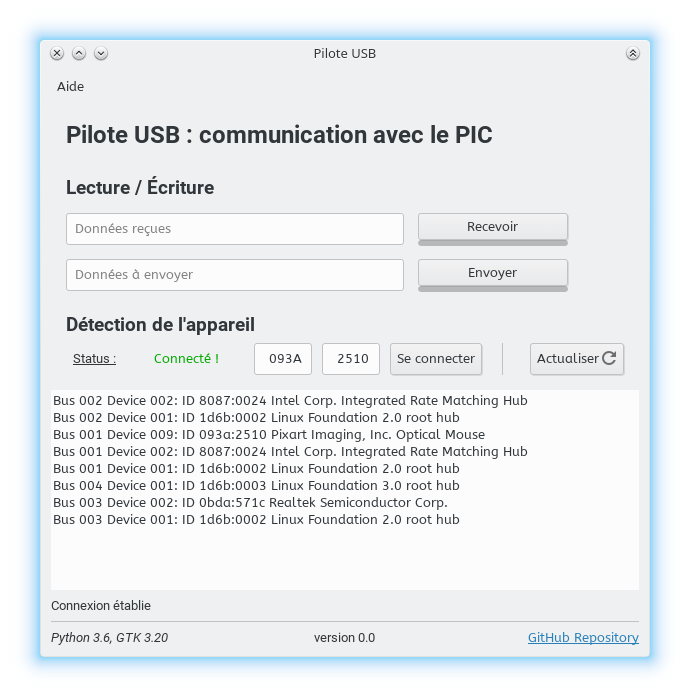
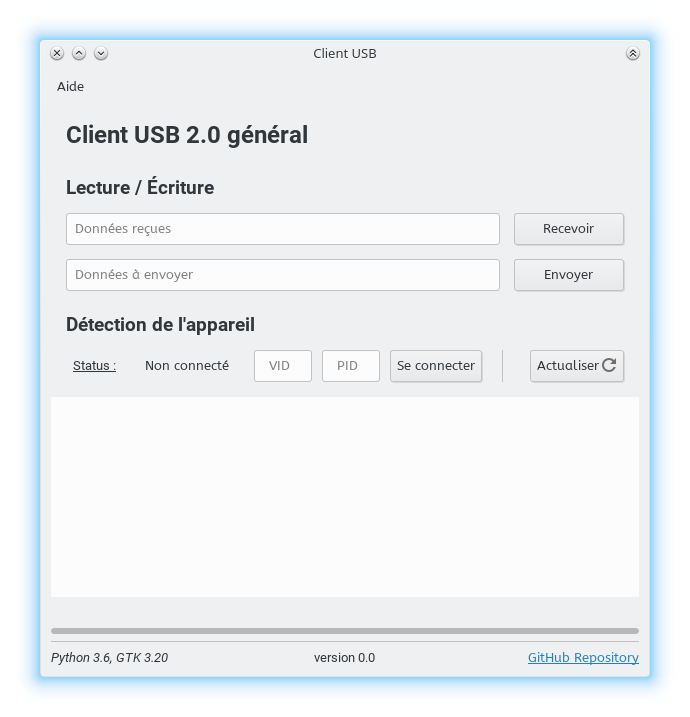
Updated source, glade file, readme, and screenshot

diff --git a/pilote-usb-pic.py b/pilote-usb-pic.py
@@ -4,8 +4,7 @@
 
 """
 
-This program is made to communicate with a Microchip PIC microcontroller
-via the Universal Serial Bus.
+This program is made to communicate with any USB device via the Universal Serial Bus.
 
 The main functionnality doesn't work yet. The skeleton of the application
 is made, but the USB communication part is still missing ; it is under
@@ -39,9 +38,10 @@ import gi
 gi.require_version('Gtk', '3.0')
 from gi.repository import Gtk
 
-import subprocess # for lsusb command output
+import subprocess # for lsusb command output, will be removed soon
 
 import sys
+import os
 
 import usb.core # to use pyusb
 import usb.util # to use pyusb
@@ -101,15 +101,26 @@ class managegui:
 		print(UsbDataWrite)
 
 	# Refresh button
+	"""
+	HAVE TO MAKE IT COMPATIBLE WITH WINDOWS SYSTEMS BY MAKING THE SAME OUTPUT
+	WITH PYUSB WITHOUT USING ANY SYSTEM COMMAND AS DONE HERE (lsusb).
+	in clear : replace the 'lsusb' command which outputs the devices connected
+			by doing our own function to reproduce the output
+	"""
 	def on_boutonRefresh_clicked(self, object, data=None):
-		command = "lsusb"
-		process = subprocess.Popen(command.split(), stdout=subprocess.PIPE)
-		output, error = process.communicate()
-		if error == None:
-			self.terminalBuffer.set_text(output.decode("utf-8"))
-			self.labelLastchange.set_text("Liste des appareils rafraichie")
+		if os.name == 'posix':
+			command = "lsusb"
+			process = subprocess.Popen(command.split(), stdout=subprocess.PIPE)
+			output, error = process.communicate()
+			if error == None:
+				self.terminalBuffer.set_text(output.decode("utf-8"))
+				self.labelLastchange.set_text("Liste des appareils rafraichie")
+			else:
+				self.terminalBuffer.set_text(error.decode("utf-8"))
+				self.labelLastchange.set_text("Échec de rafraichissement de la liste des appareils")
 		else:
-			self.terminalBuffer.set_text(error.decode("utf-8"))
+			output = "Not compatible with your system yet"
+			self.terminalBuffer.set_text(output.decode("utf-8"))
 			self.labelLastchange.set_text("Échec de rafraichissement de la liste des appareils")
 
 

diff --git a/README.md b/README.md
@@ -1,5 +1,25 @@
-# USB-Driver-for-PIC
-GUI application to communicate with a PIC MCU with USB. Made with Python 3.6 &amp; GTK3
+# General USB 2.0 client
+GUI application to communicate through any USB device. Made with Python 3.6 &amp; GTK 3.20
+
+## WARNING !
+**This program is still in development, the main goal of it is not working at all ! Do not try to lauch it without being sure of what you are doing, it could damage an USB device connected on your system**
+
+## Require
+To use this program correctly, **you must have python 3 installed on your system, as well as GTK 3.20 and PyUSB**. A GNU/Linux operating system is highly recommended ! Some functionnality wont work at this time of development. 
+
+### Install PyUSB
+To install PyUSB, refer to this link : 
+https://github.com/walac/pyusb#installing-pyusb-on-gnulinux-systems
+
+### Install GTK on Windows
+To install GTK on Windows, refer to this link : 
+https://www.gtk.org/download/windows.php
+
+If something went wrong with the software, please make sure to report it. If you are a contributor and if you found a solution to an issue, please update the readme. Thanks.
+
+Tested on :
+	- Arch Linux with KDE
+	- Arch Linux with XFCE
 
 ## Screenshot
 ![alt text](https://github.com/Lalks/USB-Driver-for-PIC/blob/master/SCREENSHOTS/screenshot-01.png)
